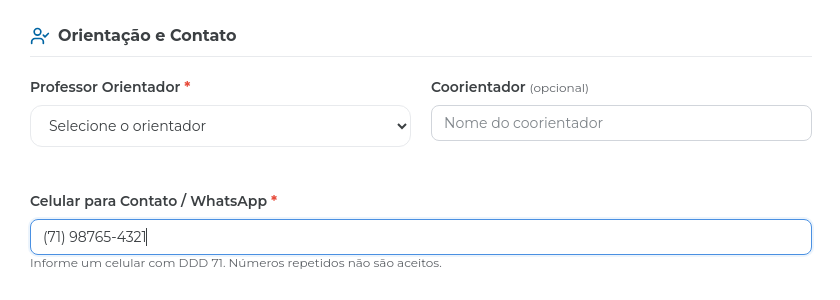
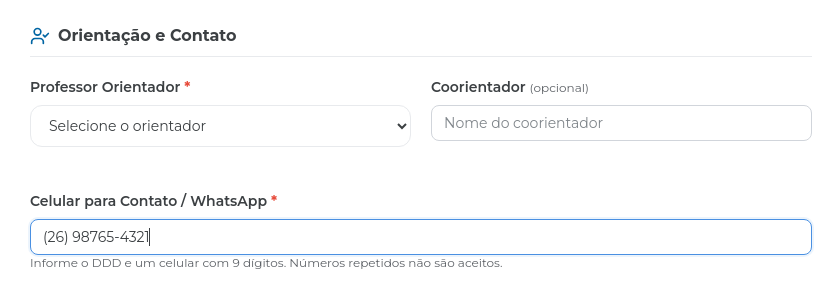
fix: permite outros DDDs no celular da apresentação

Changed region(s): [[0.0929, 0.84, 0.5881, 0.9], [0.0619, 0.75, 0.1857, 0.81]]

diff --git a/src/components/Forms/CadastroApresentacao/FormCadastroApresentacao.tsx b/src/components/Forms/CadastroApresentacao/FormCadastroApresentacao.tsx
@@ -207,25 +207,10 @@ export function FormCadastroApresentacao() {
                   component={Input}
                   ref={ref}
                   id="celular"
-                  placeholder="(71) 99999-9999"
+                  placeholder="(XX) 9XXXX-XXXX"
                   className="text-sm rounded-lg"
-                  mask="(ab) c____-____"
-                  replacement={{ a: /7/, b: /1/, c: /9/, _: /\d/ }}
-                  track={({
-                    inputType,
-                    value,
-                    data,
-                    selectionStart,
-                    selectionEnd,
-                  }) => {
-                    if (inputType !== "insert" || !data) return data;
-                    const digitos = (
-                      value.slice(0, selectionStart) +
-                      data +
-                      value.slice(selectionEnd)
-                    ).replace(/\D/g, "");
-                    return "719".startsWith(digitos.slice(0, 3)) ? data : false;
-                  }}
+                  mask="(__) c____-____"
+                  replacement={{ _: /\d/, c: /9/ }}
                   inputMode="numeric"
                   autoComplete="tel-national"
                   aria-describedby="celular-ajuda"
@@ -239,7 +224,8 @@ export function FormCadastroApresentacao() {
             />
           </div>
           <p id="celular-ajuda" className="text-xs text-muted">
-            Informe um celular com DDD 71. Números repetidos não são aceitos.
+            Informe o DDD e um celular com 9 dígitos. Números repetidos não são
+            aceitos.
           </p>
         </Campo>
       </div>

diff --git a/__tests__/celularApresentacao.test.ts b/__tests__/celularApresentacao.test.ts
@@ -4,19 +4,20 @@ import { esquemaCadastro } from "@/components/Forms/CadastroApresentacao/formCad
 const celular = esquemaCadastro.shape.celular;
 
 describe("Celular de contato da apresentação", () => {
-  it.each(["(71) 98888-7777", "71988887777"])(
-    "aceita celular válido: %s",
-    (numero) => {
-      expect(celular.safeParse(numero).success).toBe(true);
-    },
-  );
+  it.each([
+    "(71) 98888-7777",
+    "71988887777",
+    "(26) 98888-7777",
+    "(11) 98765-4321",
+  ])("aceita celular válido: %s", (numero) => {
+    expect(celular.safeParse(numero).success).toBe(true);
+  });
 
   it.each([
-    ["(26) 98888-7777", "O DDD deve ser 71"],
-    ["(00) 00000-0000", "O DDD deve ser 71"],
+    ["(00) 00000-0000", "O celular deve começar com 9 após o DDD"],
     ["(71) 38888-7777", "O celular deve começar com 9 após o DDD"],
     ["(71) 99999-9999", "O celular não pode ter todos os números iguais"],
-    ["(71) 90000-0000", "O celular não pode ter todos os números iguais"],
+    ["(26) 90000-0000", "O celular não pode ter todos os números iguais"],
     ["(71) 9888-7777", "Informe um celular com DDD e 9 dígitos"],
   ])("rejeita %s", (numero, mensagem) => {
     const resultado = celular.safeParse(numero);

diff --git a/src/components/Forms/CadastroApresentacao/formCadastroApresentacaoSchema.ts b/src/components/Forms/CadastroApresentacao/formCadastroApresentacaoSchema.ts
@@ -3,7 +3,7 @@ import { z } from "zod";
 /**
  * Schema de validação do cadastro/edição de apresentação (submissão).
  * Extraído de `FormCadastroApresentacao.tsx` (mesma quebra feita em FormEdicao).
- * Valida título/resumo, orientador, celular com DDD 71, slide PDF e link.
+ * Valida título/resumo, orientador, celular com DDD, slide PDF e link.
  */
 export const esquemaCadastro = z.object({
   id: z.string().optional(),
@@ -25,8 +25,6 @@ export const esquemaCadastro = z.object({
 
     if (digitos.length !== 11) {
       message = "Informe um celular com DDD e 9 dígitos";
-    } else if (!digitos.startsWith("71")) {
-      message = "O DDD deve ser 71";
     } else if (digitos[2] !== "9") {
       message = "O celular deve começar com 9 após o DDD";
     } else if (
